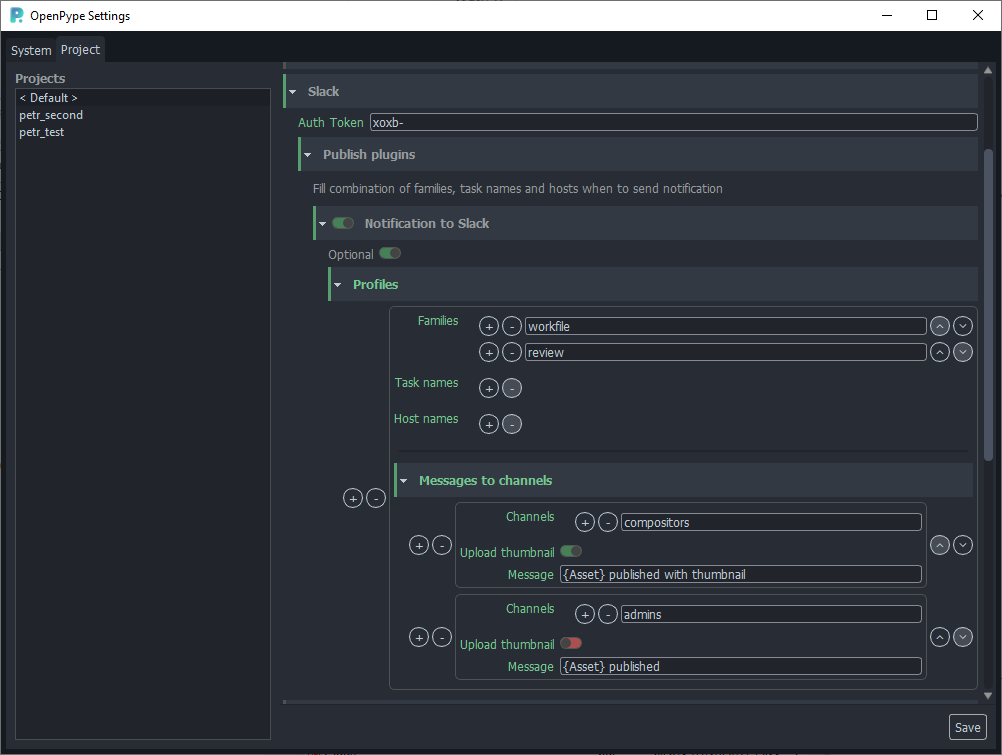
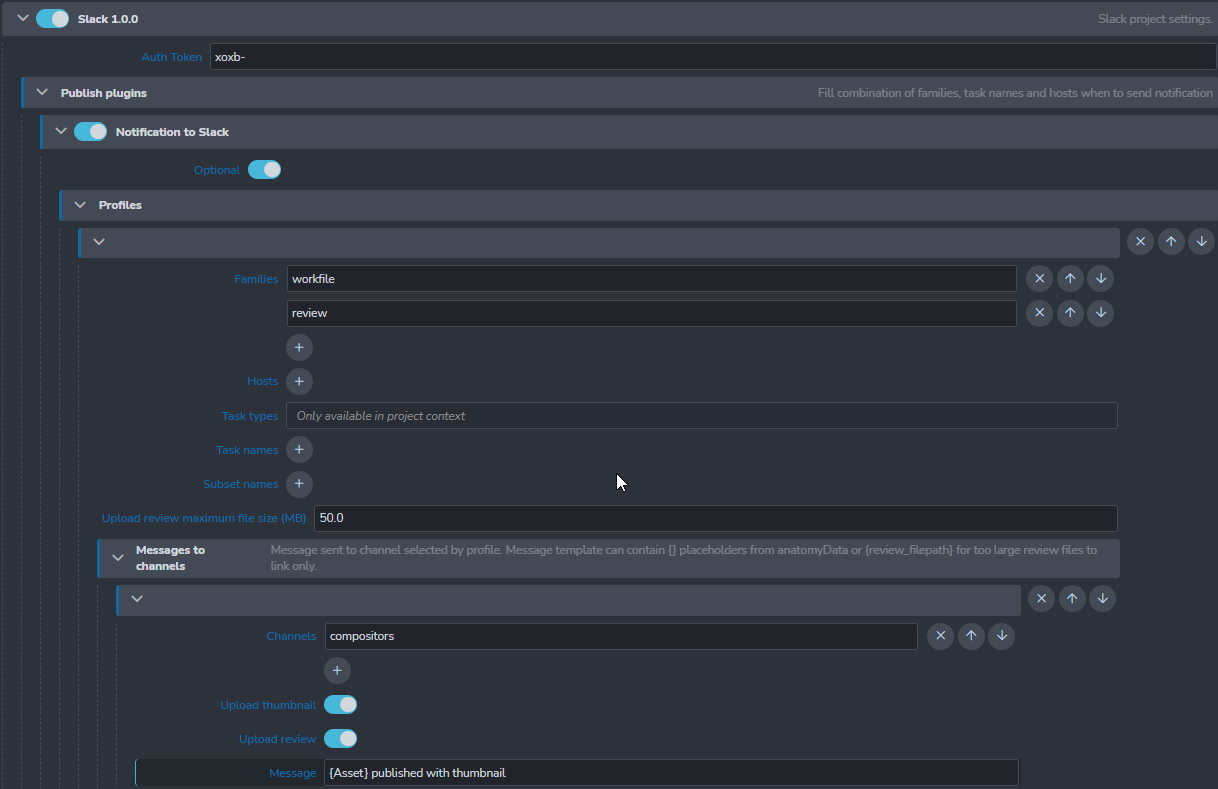
Ayon updates to Slack admin documentation

Changed region(s): [[0.0, 0.0, 1.0, 1.0], [0.4022, 0.4874, 0.4641, 0.5179]]

diff --git a/website/docs/module_slack.md b/website/docs/module_slack.md
@@ -27,14 +27,10 @@ If you would like to enrich bot with an icon, Slack admin must add the icon afte
 Go to your Slack app home (something like https://api.slack.com/apps/XXXXXXXX/general?) > Basic information > Display Information.
 You can upload any image you want, or for your convenience locate prepared AYON icon in your installed AYON installation in `ayon\modules\slac\resources`.
 
-## System Settings
+## Settings
 
-To use notifications, *Slack Notifications* needs to be enabled globally in **AYON Settings/System/Modules/Slack Notifications**.
-
-![Configure module](assets/slack_system.png)
-
-
-## Project Settings
+If Slack addon is enabled on the server, admin can configure notification for all project (`User menu > Settings > Studio Settings`)
+or per project (`Project menu > select project > Manage projects > Project Settings`)
 
 ### Token
 Most important for module to work is to fill authentication token 
@@ -64,19 +60,22 @@ to send messages to 'public' channels (eg. bot doesn't need to join the channel 
 
 #### Upload thumbnail
 Integration can upload 'thumbnail' file (if present in an instance), for that bot must be 
-manually added to target channel by Slack admin!
+manually added to each target channel by Slack admin first!
 (In target channel write: ```/invite @ayonNotifier``)
 
 #### Upload review
 Integration can upload 'review' file (if present in an instance), for that bot must be 
-manually added to target channel by Slack admin!
+manually added to each target channel by Slack admin first!
 (In target channel write: ```/invite @ayonNotifier``)
 
-Burnin version (usually .mp4) is preferred if present.
+This option is limited by `Upload review maximum file size` value in `Profiles` section. It might make sense to limit uploading
+of reviews only up to certain size. If the review file hits that limit, only link to studio accessible location will be inserted instead.
+
+Burnin version of the review (usually .mp4) is preferred if present.
 
 Please be sure that this configuration is viable for your use case. In case of uploading large reviews to Slack, 
 all publishes will be slowed down and you might hit a file limit on Slack pretty soon (it is 5GB for Free version of Slack, any file cannot be bigger than 1GB).
-You might try to add `{review_filepath}` to message content. This link might help users to find review easier on their machines.
+You might try to add `{review_filepath}` to message content instead of using `Upload review`. This link might help users to find review easier on their machines.
 (It won't show a playable preview though!)
 
 #### Message
